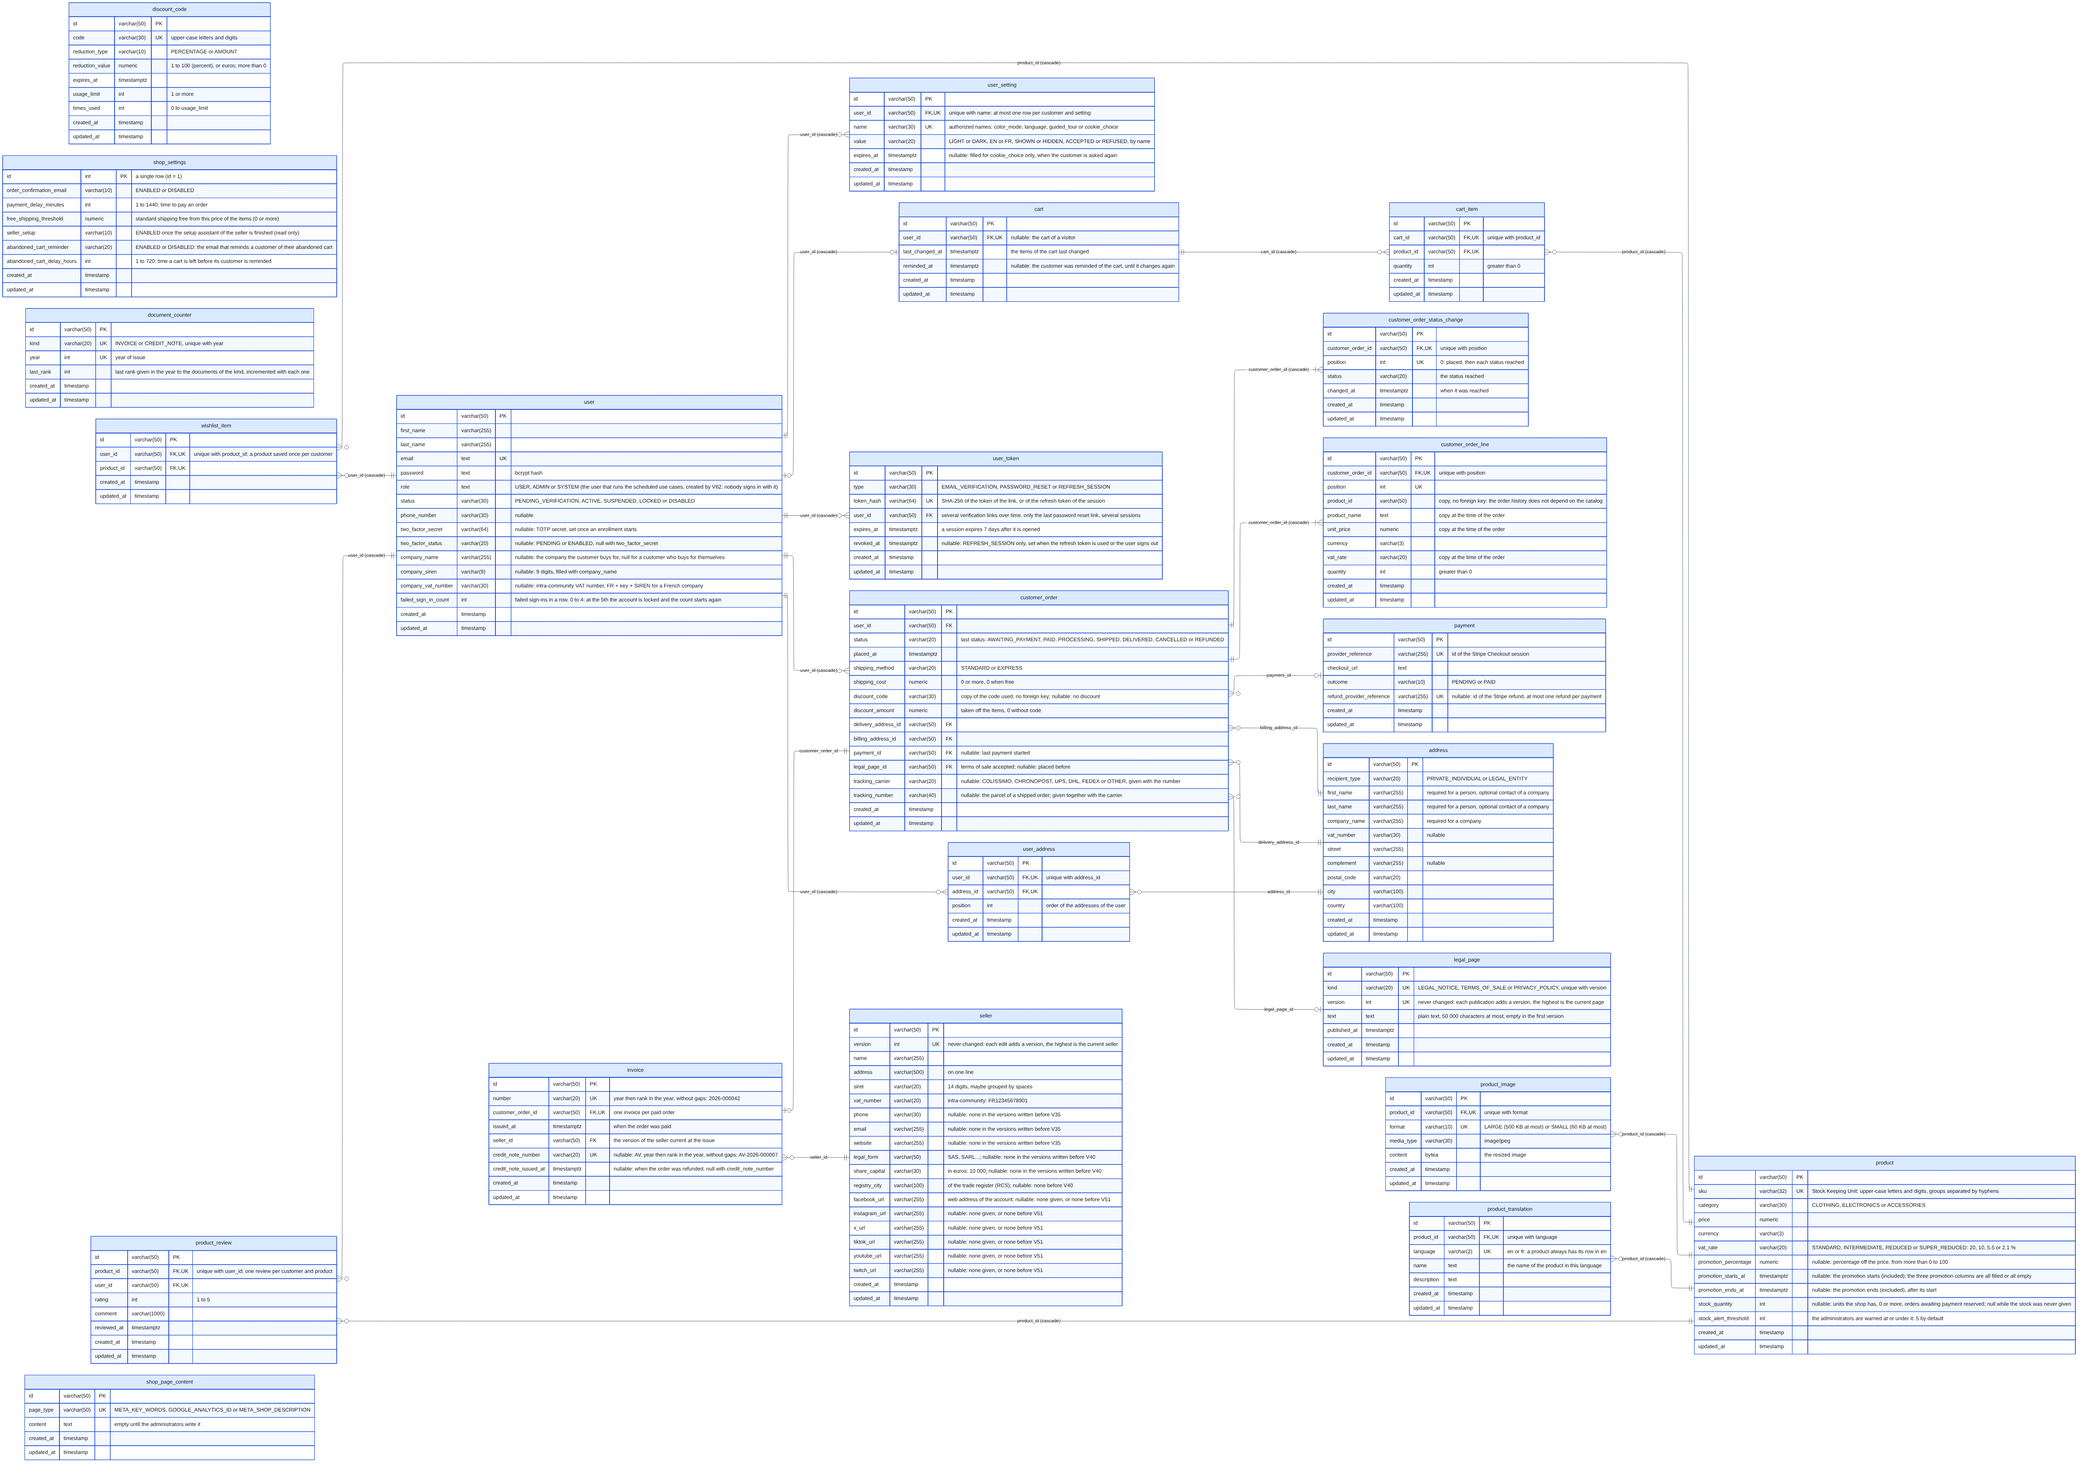
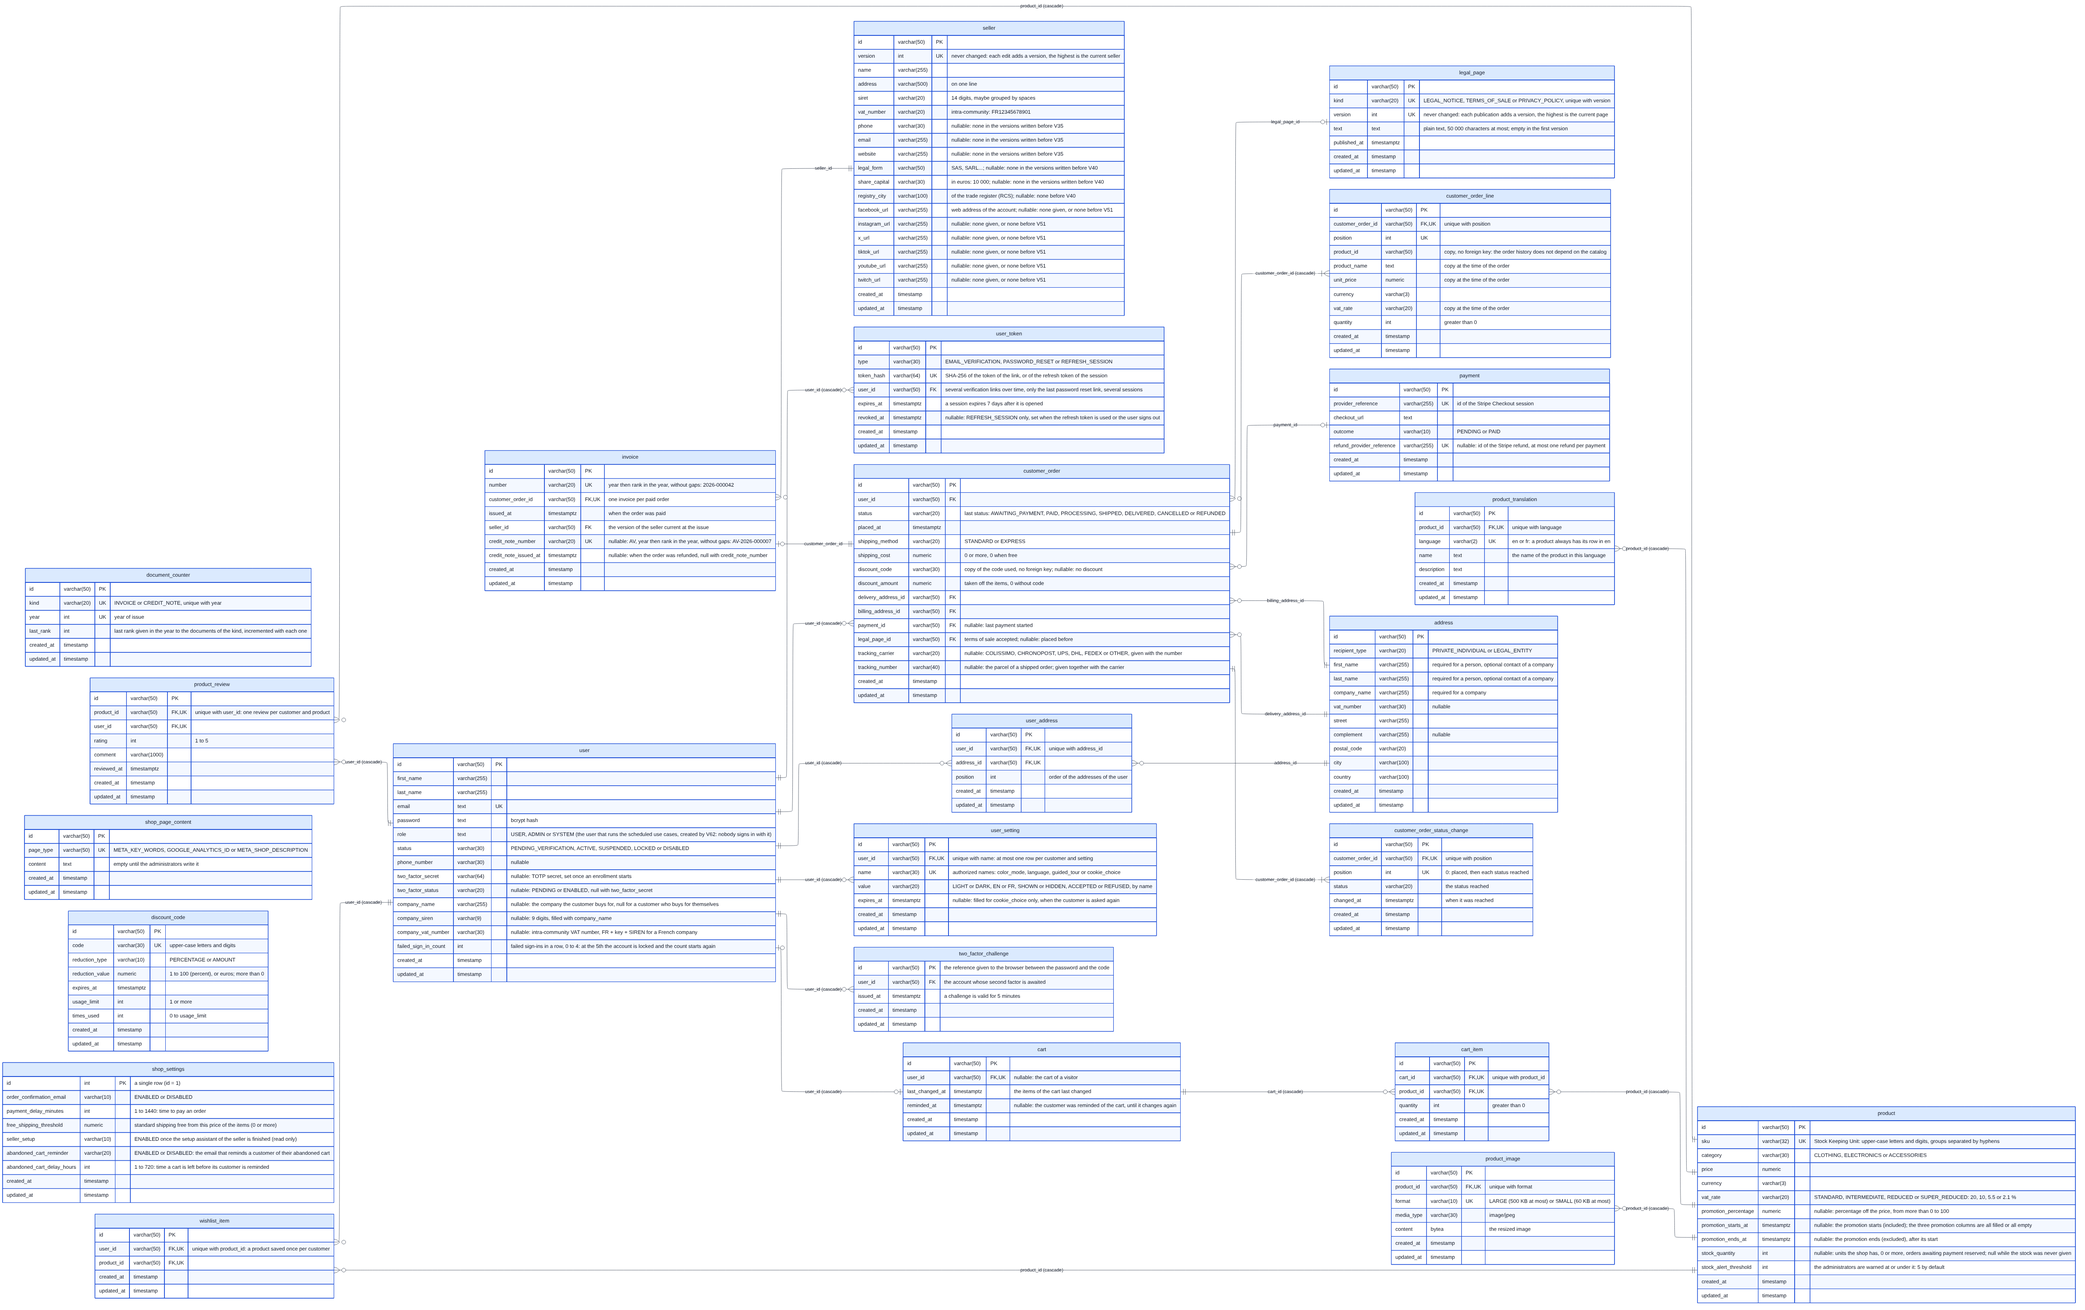
feat(backend): keep the two-factor challenges in the database
A sign-in waiting for its second factor was kept in the memory of the
application: a restart dropped it and two instances did not share it. It is
now a two_factor_challenge row (V68), written by a PostgreSQL adapter, and
deleted once the code is verified.

Claude-Session: https://claude.ai/code/session_01U9gDSbyHrGStCvQJQLu2D5

diff --git a/backend/spring-infra/src/test/kotlin/org/flexstore/infra/spring/adapter/persistence/jpa/TwoFactorChallengeIT.kt b/backend/spring-infra/src/test/kotlin/org/flexstore/infra/spring/adapter/persistence/jpa/TwoFactorChallengeIT.kt
@@ -1,0 +1,101 @@
+package org.flexstore.infra.spring.adapter.persistence.jpa
+
+import org.assertj.core.api.Assertions.assertThat
+import org.flexstore.domain.twofactor.TwoFactorChallengeRepository
+import org.flexstore.domain.twofactor.model.TwoFactorChallenge
+import org.flexstore.domain.twofactor.model.TwoFactorChallengeId
+import org.flexstore.domain.twofactor.model.TwoFactorChallengeLookup
+import org.flexstore.domain.user.model.*
+import org.flexstore.domain.user.repository.UserRepository
+import org.flexstore.infra.spring.adapter.persistence.jpa.repository.JpaUserRepository
+import org.junit.jupiter.api.AfterEach
+import org.junit.jupiter.api.BeforeEach
+import org.junit.jupiter.api.Test
+import org.springframework.beans.factory.annotation.Autowired
+import org.springframework.boot.test.context.SpringBootTest
+import org.springframework.test.context.ActiveProfiles
+import java.time.Instant
+
+@ActiveProfiles("test")
+@SpringBootTest
+class TwoFactorChallengeIT {
+
+    @Autowired
+    private lateinit var challengeRepository: TwoFactorChallengeRepository
+
+    @Autowired
+    private lateinit var userRepository: UserRepository
+
+    @Autowired
+    private lateinit var jpaUserRepository: JpaUserRepository
+
+    private val jane = User.DefinedUser(
+        UserId.ValidUserId("challenge-it-jane"),
+        FullName(FirstName("Jane"), LastName("Doe")),
+        Email("challenge-it.jane@example.com"),
+        PlainPassword("password123")
+    )
+    private val challenge = TwoFactorChallenge(
+        TwoFactorChallengeId("challenge-it-1"),
+        jane.id,
+        Instant.parse("2026-11-13T10:00:00Z")
+    )
+
+    @BeforeEach
+    fun createJane() {
+        userRepository.save(jane)
+    }
+
+    @AfterEach
+    fun deleteJane() {
+        jpaUserRepository.deleteById(jane.id.value)
+    }
+
+    @Test
+    fun `a saved challenge should be found with its user and its issue moment`() {
+        // Arrange
+        challengeRepository.save(challenge)
+        // Act
+        val lookup = challengeRepository.find(challenge.id)
+        // Assert
+        assertThat(lookup).isEqualTo(TwoFactorChallengeLookup.Found(challenge))
+    }
+
+    @Test
+    fun `an unknown challenge should not be found`() {
+        // Act
+        val lookup = challengeRepository.find(TwoFactorChallengeId("challenge-it-unknown"))
+        // Assert
+        assertThat(lookup).isEqualTo(TwoFactorChallengeLookup.NotFound)
+    }
+
+    @Test
+    fun `a deleted challenge should not be found any more`() {
+        // Arrange
+        challengeRepository.save(challenge)
+        // Act
+        challengeRepository.delete(challenge.id)
+        // Assert
+        assertThat(challengeRepository.find(challenge.id)).isEqualTo(TwoFactorChallengeLookup.NotFound)
+    }
+
+    @Test
+    fun `deleting a challenge that does not exist should change nothing`() {
+        // Arrange
+        challengeRepository.save(challenge)
+        // Act
+        challengeRepository.delete(TwoFactorChallengeId("challenge-it-unknown"))
+        // Assert
+        assertThat(challengeRepository.find(challenge.id)).isEqualTo(TwoFactorChallengeLookup.Found(challenge))
+    }
+
+    @Test
+    fun `the challenges of a user should be deleted with the user`() {
+        // Arrange
+        challengeRepository.save(challenge)
+        // Act
+        jpaUserRepository.deleteById(jane.id.value)
+        // Assert
+        assertThat(challengeRepository.find(challenge.id)).isEqualTo(TwoFactorChallengeLookup.NotFound)
+    }
+}

diff --git a/backend/spring-infra/src/main/kotlin/org/flexstore/infra/spring/adapter/persistence/jpa/repository/PostgresTwoFactorChallengeRepositoryAdapter.kt b/backend/spring-infra/src/main/kotlin/org/flexstore/infra/spring/adapter/persistence/jpa/repository/PostgresTwoFactorChallengeRepositoryAdapter.kt
@@ -1,0 +1,34 @@
+package org.flexstore.infra.spring.adapter.persistence.jpa.repository
+
+import org.flexstore.domain.twofactor.TwoFactorChallengeRepository
+import org.flexstore.domain.twofactor.model.TwoFactorChallenge
+import org.flexstore.domain.twofactor.model.TwoFactorChallengeId
+import org.flexstore.domain.twofactor.model.TwoFactorChallengeLookup
+import org.flexstore.domain.user.model.UserId
+import org.flexstore.infra.spring.adapter.persistence.jpa.entity.TwoFactorChallengeEntity
+import org.springframework.stereotype.Repository
+import org.springframework.transaction.annotation.Transactional
+
+// The challenges are kept in the database, so that they survive a restart and are shared by several instances
+@Repository
+@Transactional
+class PostgresTwoFactorChallengeRepositoryAdapter(private val jpaRepo: JpaTwoFactorChallengeRepository) :
+    TwoFactorChallengeRepository {
+
+    override fun save(challenge: TwoFactorChallenge) {
+        jpaRepo.save(TwoFactorChallengeEntity(challenge.id.value, challenge.userId.value, challenge.issuedAt))
+    }
+
+    @Transactional(readOnly = true)
+    override fun find(challengeId: TwoFactorChallengeId): TwoFactorChallengeLookup =
+        jpaRepo.findById(challengeId.value)
+            .map<TwoFactorChallengeLookup> { TwoFactorChallengeLookup.Found(it.toDomain()) }
+            .orElse(TwoFactorChallengeLookup.NotFound)
+
+    override fun delete(challengeId: TwoFactorChallengeId) {
+        jpaRepo.deleteById(challengeId.value)
+    }
+
+    private fun TwoFactorChallengeEntity.toDomain() =
+        TwoFactorChallenge(TwoFactorChallengeId(id), UserId.ValidUserId(userId), issuedAt)
+}

diff --git a/backend/spring-infra/src/main/kotlin/org/flexstore/infra/spring/adapter/persistence/jpa/entity/TwoFactorChallengeEntity.kt b/backend/spring-infra/src/main/kotlin/org/flexstore/infra/spring/adapter/persistence/jpa/entity/TwoFactorChallengeEntity.kt
@@ -1,0 +1,22 @@
+package org.flexstore.infra.spring.adapter.persistence.jpa.entity
+
+import jakarta.persistence.Column
+import jakarta.persistence.Entity
+import jakarta.persistence.Id
+import jakarta.persistence.Table
+import java.time.Instant
+
+// A sign-in waiting for its second factor: the id is the reference given to the browser, the row is deleted
+// once the code is verified
+@Entity
+@Table(name = "two_factor_challenge")
+data class TwoFactorChallengeEntity(
+    @Id
+    val id: String,
+
+    @Column(name = "user_id", nullable = false, updatable = false)
+    val userId: String,
+
+    @Column(name = "issued_at", nullable = false, updatable = false)
+    val issuedAt: Instant
+) : TimestampedEntity()

diff --git a/backend/infra/src/main/kotlin/org/flexstore/infra/repository/InMemoryTwoFactorChallengeRepository.kt b/backend/infra/src/main/kotlin/org/flexstore/infra/repository/InMemoryTwoFactorChallengeRepository.kt
@@ -5,8 +5,7 @@ import org.flexstore.domain.twofactor.model.TwoFactorChallenge
 import org.flexstore.domain.twofactor.model.TwoFactorChallengeId
 import org.flexstore.domain.twofactor.model.TwoFactorChallengeLookup
 
-// Kept in memory: a sign-in challenge is short-lived (see TwoFactorChallenge.VALIDITY) and does not need to
-// survive a restart of the application
+// In-memory double of the challenges, for the tests: the application keeps them in the database
 class InMemoryTwoFactorChallengeRepository : TwoFactorChallengeRepository {
 
     private val challenges = mutableMapOf<TwoFactorChallengeId, TwoFactorChallenge>()

diff --git a/backend/spring-infra/src/main/kotlin/org/flexstore/infra/spring/adapter/persistence/jpa/repository/JpaTwoFactorChallengeRepository.kt b/backend/spring-infra/src/main/kotlin/org/flexstore/infra/spring/adapter/persistence/jpa/repository/JpaTwoFactorChallengeRepository.kt
@@ -1,0 +1,8 @@
+package org.flexstore.infra.spring.adapter.persistence.jpa.repository
+
+import org.flexstore.infra.spring.adapter.persistence.jpa.entity.TwoFactorChallengeEntity
+import org.springframework.data.jpa.repository.JpaRepository
+import org.springframework.stereotype.Repository
+
+@Repository
+interface JpaTwoFactorChallengeRepository : JpaRepository<TwoFactorChallengeEntity, String>

diff --git a/docs/database.md b/docs/database.md
@@ -1,6 +1,6 @@
 # Physical data model
 
-The PostgreSQL schema of Flexstore, as created by the Flyway migrations of `backend/migrations` (last migration: **V66**). Update this diagram in the same pull request as any migration that changes the schema (see the `database-convention` skill).
+The PostgreSQL schema of Flexstore, as created by the Flyway migrations of `backend/migrations` (last migration: **V68**). Update this diagram in the same pull request as any migration that changes the schema (see the `database-convention` skill).
 
 ![Physical data model](database.png)
 
@@ -37,6 +37,14 @@ erDiagram
         user_id varchar(50) FK "several verification links over time, only the last password reset link, several sessions"
         expires_at timestamptz "a session expires 7 days after it is opened"
         revoked_at timestamptz "nullable: REFRESH_SESSION only, set when the refresh token is used or the user signs out"
+        created_at timestamp
+        updated_at timestamp
+    }
+
+    two_factor_challenge {
+        id varchar(50) PK "the reference given to the browser between the password and the code"
+        user_id varchar(50) FK "the account whose second factor is awaited"
+        issued_at timestamptz "a challenge is valid for 5 minutes"
         created_at timestamp
         updated_at timestamp
     }
@@ -289,6 +297,7 @@ erDiagram
     }
 
     user ||--o{ user_token : "user_id (cascade)"
+    user ||--o{ two_factor_challenge : "user_id (cascade)"
     user ||--o{ user_setting : "user_id (cascade)"
     user ||--o{ user_address : "user_id (cascade)"
     user_address }o--|| address : "address_id"
@@ -328,6 +337,7 @@ erDiagram
 - A `payment` has at most one refund: its reference on the payment provider is the nullable column `refund_provider_reference` (V64 merged the former `payment_refund` table into `payment`), empty while the payment is not refunded.
 - A wrong password for an existing account adds one to its `failed_sign_in_count` (a column of `user`, V63 merged the former `failed_sign_in` table into it). At the 5th failure in a row, the account becomes `LOCKED` and the count goes back to 0, so that it starts again when an administrator reactivates the account; a successful sign-in resets it too. An email that belongs to no account, and an account that cannot sign in already, are not counted.
 - A session of a signed-in user is a `user_token` of the type `REFRESH_SESSION` (V66 merged the former `refresh_session` table into `user_token`): its refresh token renews their access token (15 minutes) once, then the session is revoked (`revoked_at`) and replaced by a new row. A revoked token that comes back revokes every open session of its user. Only the hash of the token is stored; deleting a user deletes their sessions.
+- A sign-in whose password was right, for an account with two-factor authentication, waits for its code as a `two_factor_challenge` (V68; it was kept in the memory of the application before): the row is found by its `id`, which the browser sends back with the code, and deleted once the code is verified. A challenge older than 5 minutes is refused and dropped when it is found; one that is never used stays until its user is deleted, which deletes their challenges.
 - The carrier and the tracking number of the parcel of an order are given together by an administrator when the order is shipped, or corrected afterwards (`tracking_carrier` and `tracking_number`, a check forbids one without the other); the orders shipped before V45, or shipped without them, have none.
 - The `shop_page_content` rows are what the administrators write for the head of the shop pages: one row for each `page_type` (the key words, the description of the shop, the Google Analytics identifier), all created empty by V57. A new type is a new row, not a column. They are read by everyone, edited by the administrators, and kept in a cache that every edit evicts.
 - `user` is quoted in SQL (`"user"`), a reserved word; the orders are stored in `customer_order` for the same reason.

diff --git a/README.md b/README.md
@@ -49,7 +49,7 @@ This repo is meant to be a learning vehicle and a ready-to-fork base for real pr
 - Create an account in express mode (first name, last name, email, password) or with more details (phone number, postal address, which can also be given later; a customer who buys for their company ticks *I am a company* and gives its name, its SIREN and, optionally, its intra-community VAT number, which must match the SIREN for a French company: the address is then sent to the company, for their attention, and the invoices carry its name and VAT number): the account waits for the verification of the email (`PENDING_VERIFICATION`), the customer is signed in at once and can order
 - Verify the email with the link received by email (valid for 1 hour): the account becomes `ACTIVE`; a new link can be asked for from the profile
 - Sign in with the password or with Google, sign out, profile, change password; forgotten password: a link sent by email (valid for 1 hour, usable once) lets the customer choose a new one, and the answer is the same whether the email has an account or not
-- Two-factor authentication (TOTP, with an authenticator app): a customer or an administrator turns it on from their profile (QR code, then the first code to confirm) and off with their password; once on, the sign-in asks for the code after the password; an administrator can turn it off for another account that lost its device
+- Two-factor authentication (TOTP, with an authenticator app): a customer or an administrator turns it on from their profile (QR code, then the first code to confirm) and off with their password; once on, the sign-in asks for the code after the password (the sign-in in progress is kept in the database, 5 minutes); an administrator can turn it off for another account that lost its device
 - Sessions and brute-force protection: the session is renewed with a refresh token (see Authentication); after 5 failed sign-ins in a row (a wrong password or a wrong code for an existing account), the account is locked (`LOCKED`) until an administrator reactivates it; a successful sign-in starts the count again; a wrong password and an unknown email still get the same answer
 - Cookies: a banner asks the visitor at their first visit to accept or refuse the preference cookies (the light or dark mode and the language kept for the next visits); the essential cookies (sign-in, cart) need no consent; the customer changes their choice in their account (profile page), and refusing forgets the stored preferences. A visitor keeps their choice in the browser (`localStorage`); a signed-in customer has it in the database (`user_setting`, `GET` and `PUT /api/cookie-consent`) for 6 months, after which they are asked again; at sign-in, the choice of the browser is recorded in their account and removed from the browser
 - My preferences: the display mode (light or dark), the language and the guided tour of a signed-in customer are kept in their account (`/api/color-mode`, `/api/language`, `/api/guided-tour`) and found again on every device
@@ -93,7 +93,7 @@ The cart rules live in the `Cart` aggregate (domain); the use cases (`AddItemToC
 ```
 backend/
   domain/         # Entities, value objects, use cases, ports, errors
-  infra/          # Infrastructure not linked to a framework (in-memory repositories; only the two-factor challenges one is used by the app)
+  infra/          # Infrastructure not linked to a framework (in-memory repositories, used by the tests)
   spring-infra/   # Spring adapters (REST controllers, JPA), OpenAPI spec
   migrations/     # Flyway SQL migrations
   mcp/            # MCP server that exposes the products to AI assistants (calls the use cases of the domain)

diff --git a/CLAUDE.md b/CLAUDE.md
@@ -8,7 +8,7 @@ and a Vue 3 shop front end. See `README.md` for the features, the environment va
 ```
 backend/
   domain/        # Pure Kotlin: entities, value objects, use cases, ports, errors. No framework.
-  infra/         # Framework-free infrastructure (in-memory repositories; only the 2FA one is used by the app)
+  infra/         # Framework-free infrastructure (in-memory repositories, used by the tests)
   spring-infra/  # Spring adapters (REST controllers, JPA), OpenAPI spec
   migrations/    # Flyway SQL migrations
   mcp/           # MCP server that exposes the products, calls the domain (served by spring-infra at /mcp)
